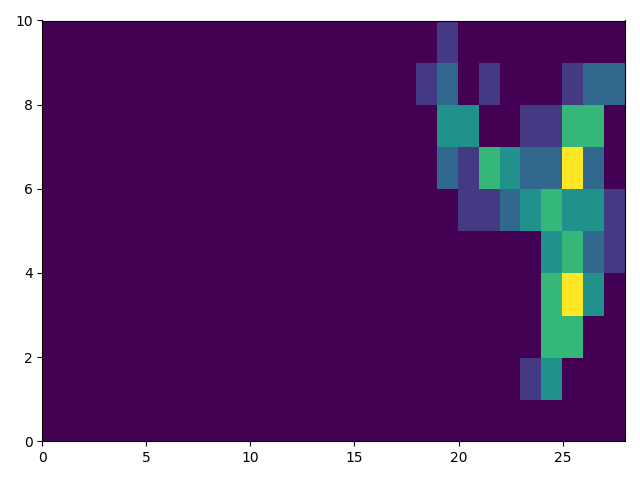
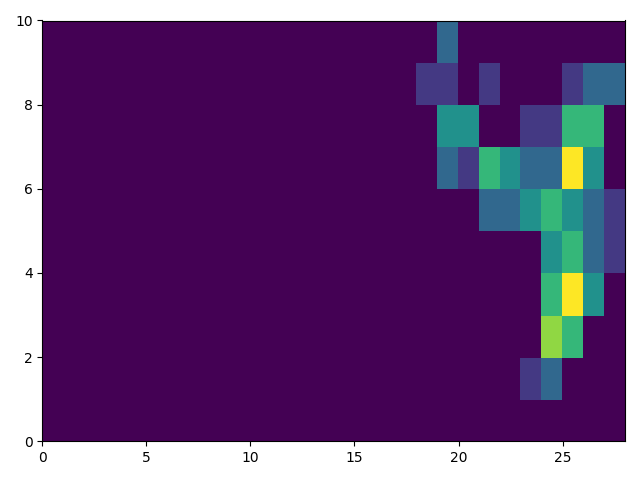
update

diff --git a/rw-seg.py b/rw-seg.py
@@ -19,22 +19,21 @@ print(nx, ny)
 # plot the random walk
 plt.plot(x,y)
 plt.xlim([0, xmax])
-plt.ylim([0, ymax])
-plt.title('random walk')
+plt.ylim([0, ymax]) # plt.title('random walk')
 plt.tight_layout()
-plt.savefig('walk.png')
+plt.savefig('doc/walk.png')
 
 # bin the observations
 Z = np.zeros((ny, nx))
 for i in range(0, len(x)):
-    xi = math.floor(x[i] / dx)
-    yi = math.floor(y[i] / dx)
+    xi = math.floor((x[i] + 0.5) / dx)
+    yi = math.floor((y[i] + 0.5) / dx)
     Z[yi, xi] += 1
 
 plt.figure()
 plt.pcolor(Z)
 plt.tight_layout()
-plt.savefig('count.png')
+plt.savefig('doc/count.png')
 
 my_label, next_label, dens = np.zeros((ny, nx)), 1, {}
 
@@ -71,7 +70,7 @@ for i in range(0, ny):
 plt.figure()
 plt.pcolor(my_label)
 plt.tight_layout()
-plt.savefig('label.png')
+plt.savefig('doc/label.png')
 
 for i in range(0, ny):
     for j in range(0, nx):
@@ -81,4 +80,4 @@ for i in range(0, ny):
 plt.figure()
 plt.pcolor(Z)
 plt.tight_layout()
-plt.savefig('dens.png')
+plt.savefig('doc/dens.png')
